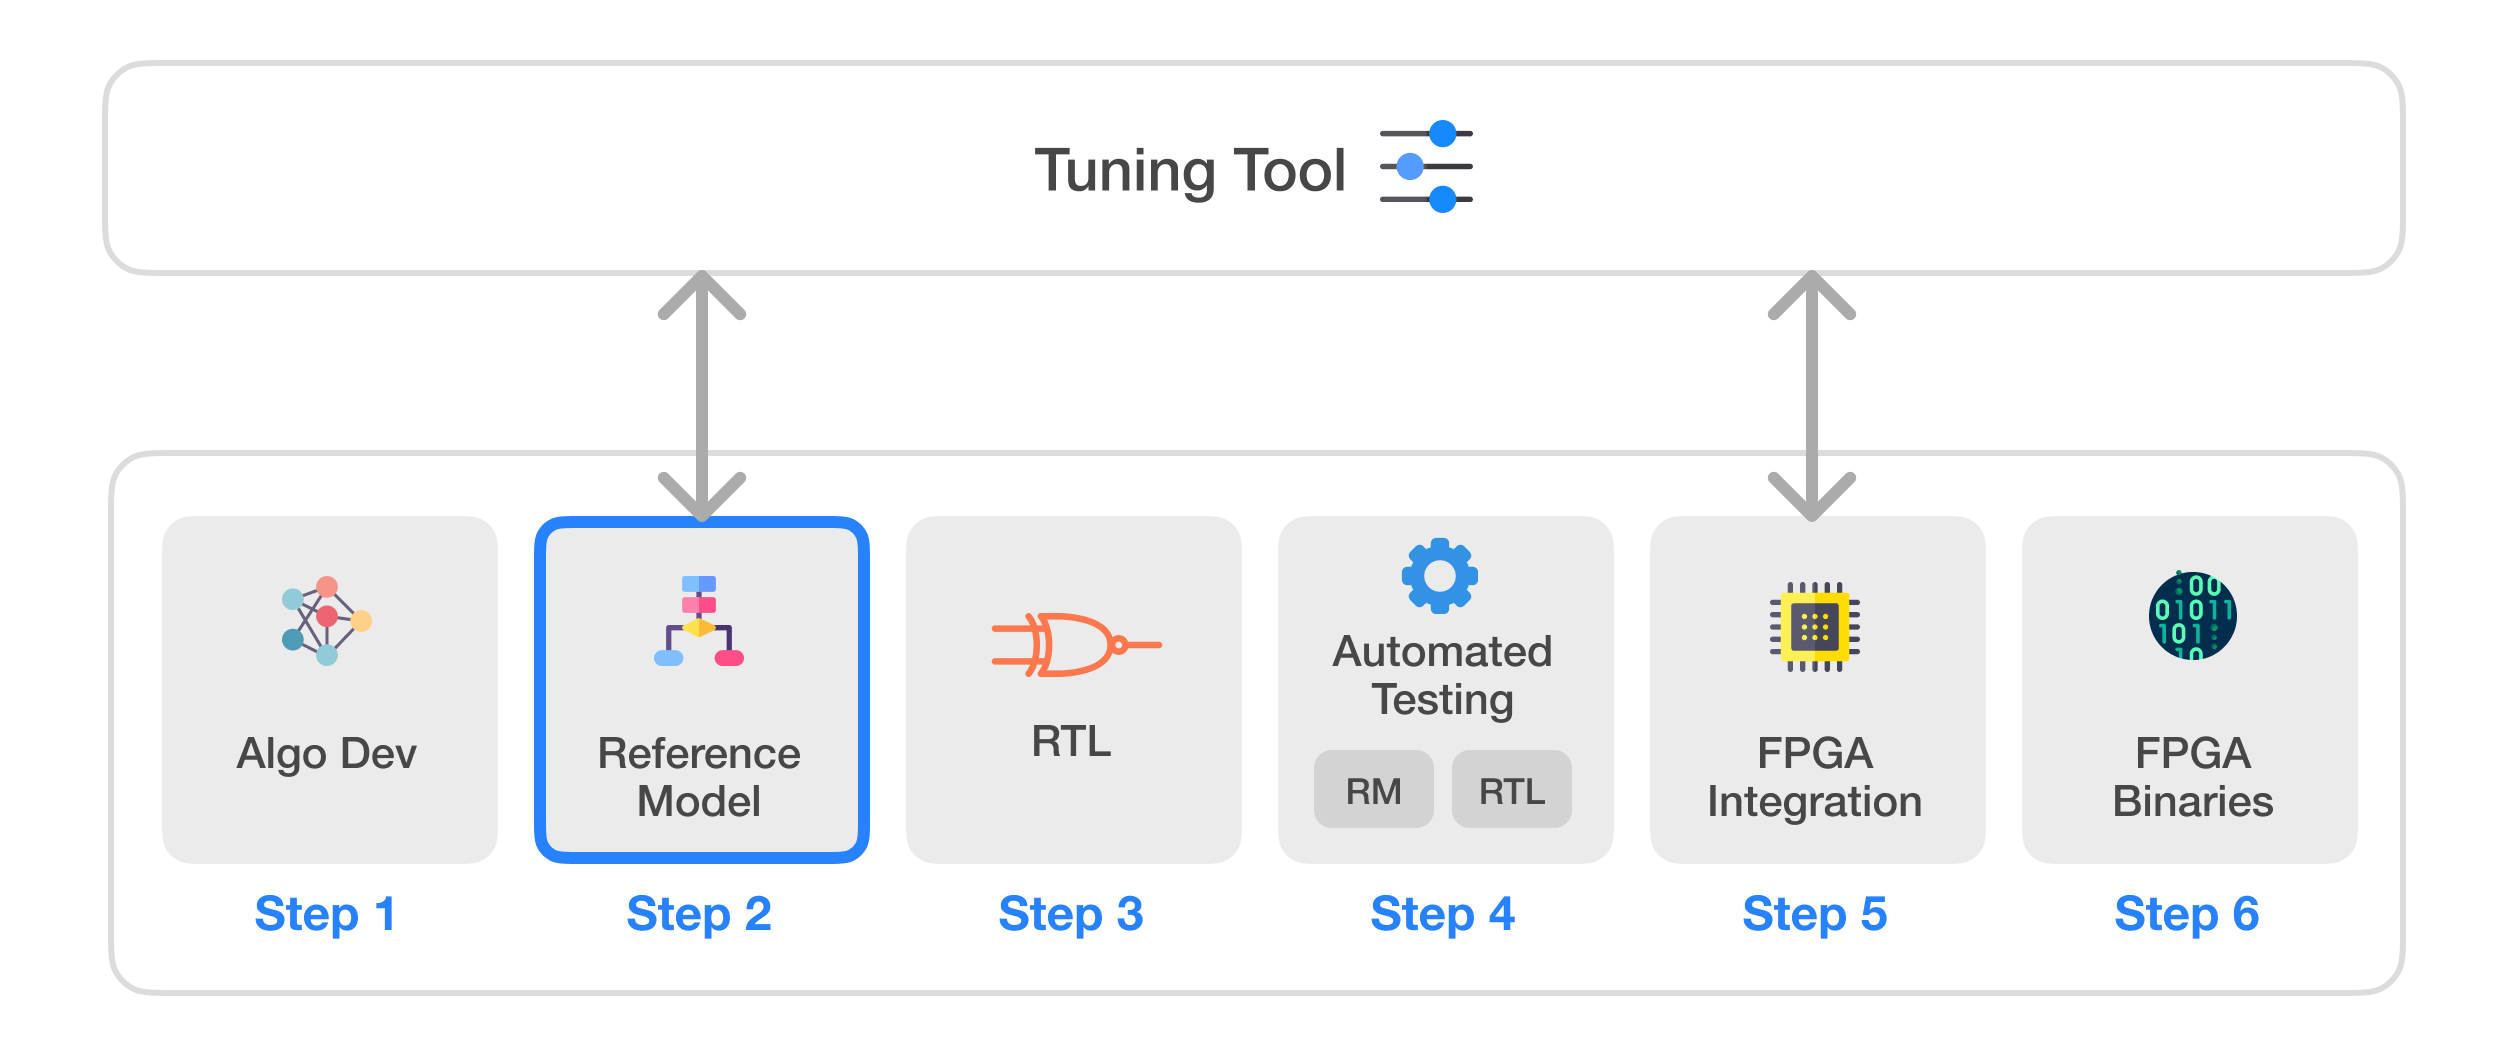
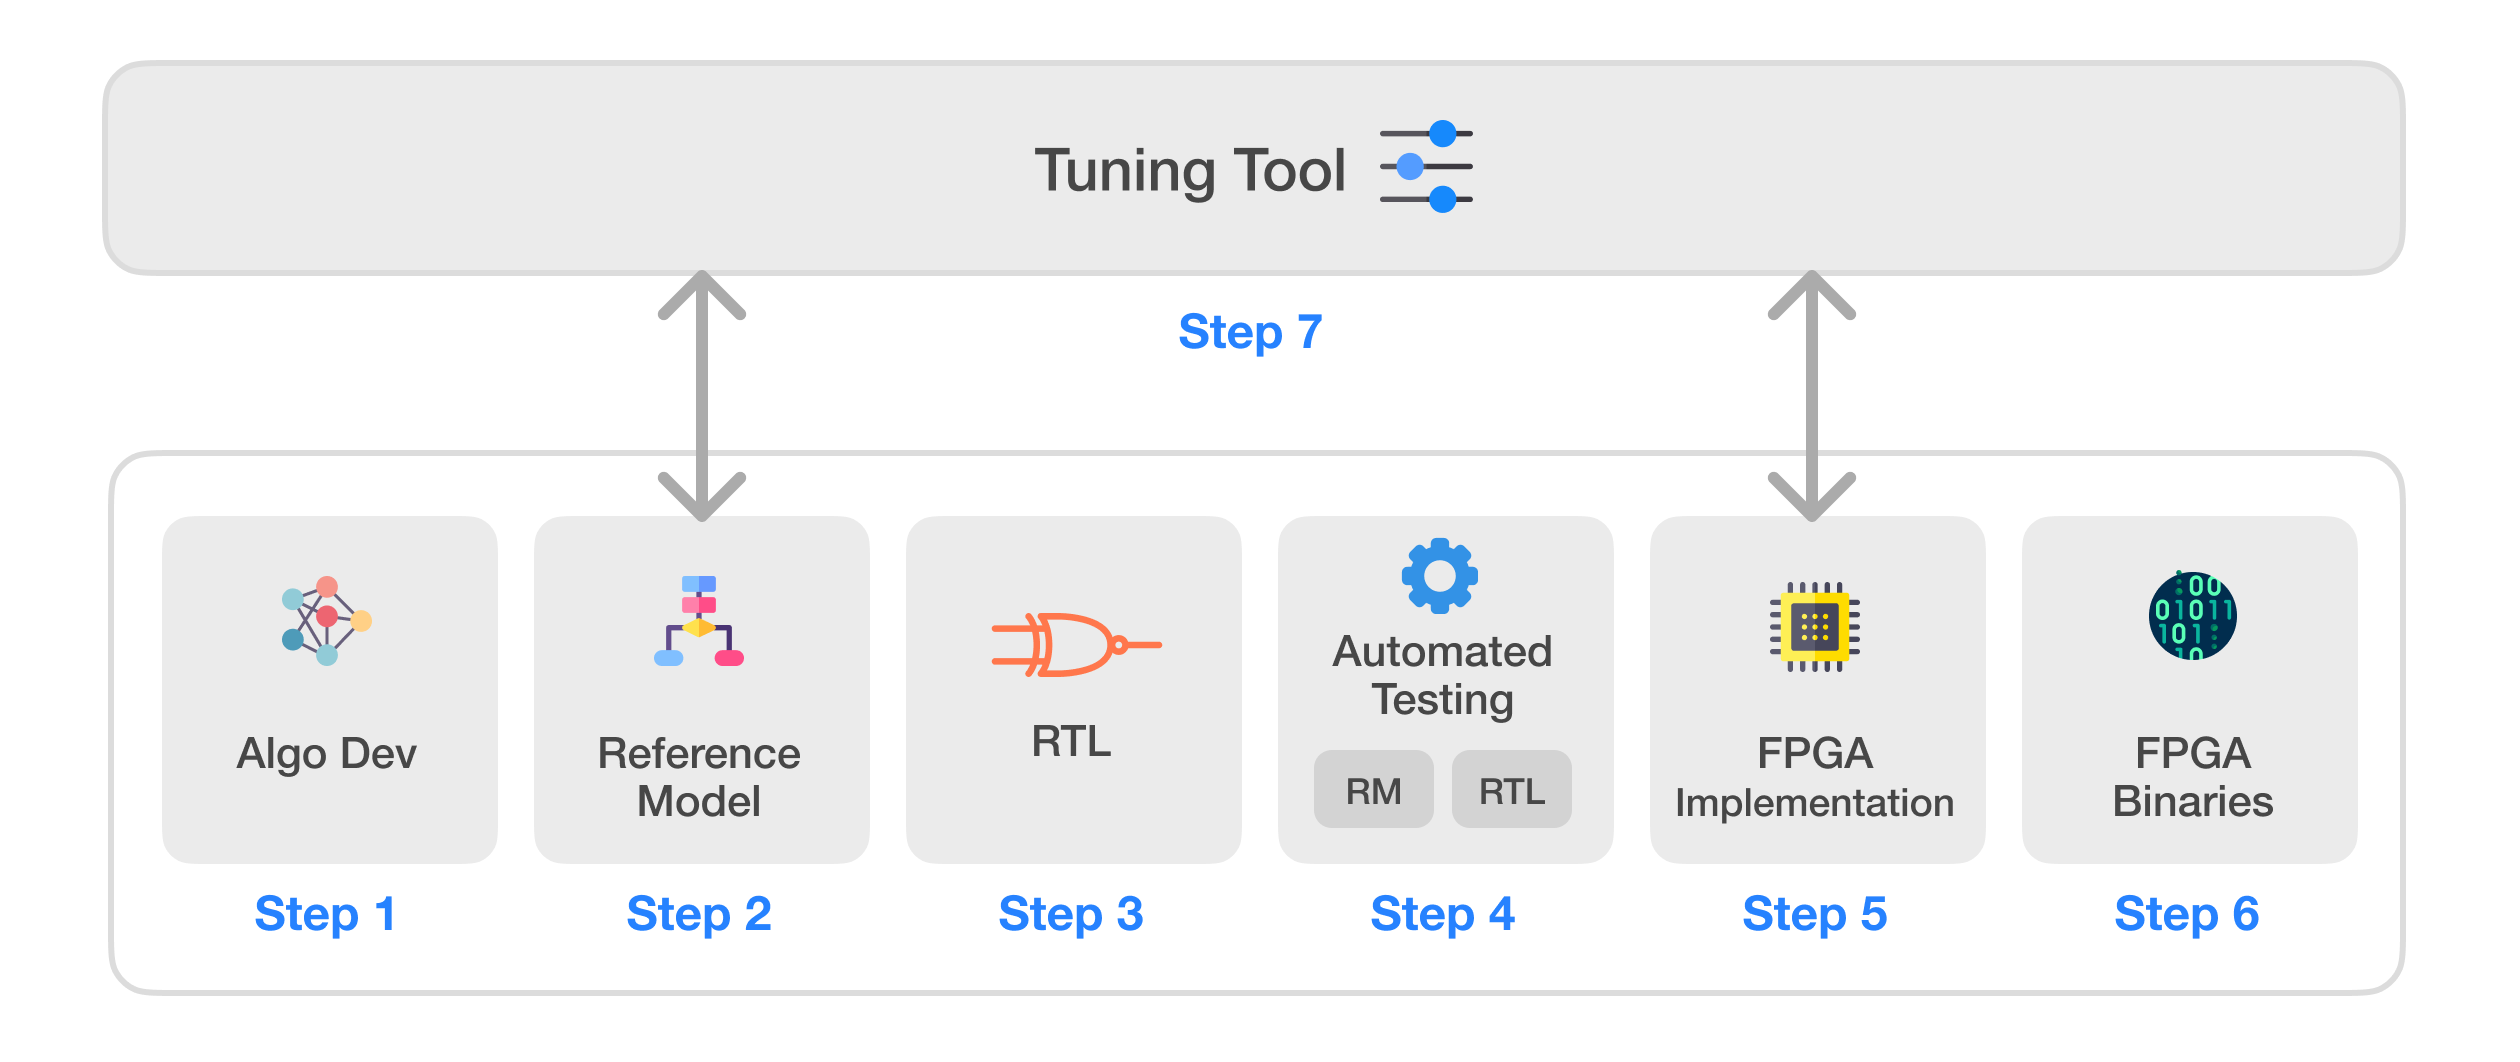
update readme header

diff --git a/README.md b/README.md
@@ -1,17 +1,18 @@
 # Infinite-ISP
-Infinite-ISP is a full-stack ISP development platform - from algorithm development to RTL design, FPGA/ASIC implementation, and associated firmware, tools, etc. It offers a unified platform that empowers ISP developers to accelerate ISP innovation. It includes a complete collection of camera pipeline modules written in Python, a quantized and optimized Reference Model for RTL development, an FPGA bitstream & the associated Firmware for the implementation of the pipeline on the Kria KV260 development board, and lastly, a stand-alone Python-based Tuning Tool application for the pipeline. The main components of the Infinite-ISP project are listed below:
+Infinite-ISP is a full-stack ISP development platform - from algorithm development to RTL design, FPGA/ASIC implementation, and associated firmware, tools, etc. It offers a unified platform that empowers ISP developers to accelerate ISP innovation. It includes a complete collection of camera pipeline modules written in Python, its associated fixed-point reference model, an optimized RTL design, an FPGA bitstream & the associated Firmware for the implementation of the pipeline on the Kria KV260 development board, and lastly, a stand-alone Python-based Tuning Tool application for the pipeline. The main components of the Infinite-ISP project are listed below:
 
 ![](docs/assets/Infinite-ISP_Repo_Flow.png)
 
 | Sr.     | Repository name        | Description      | 
 |---------| -------------  | ------------- |
-| 1  | **[Infinite-ISP_AlgorithmDesign](https://github.com/10x-Engineers/Infinite-ISP)**                     | Python based model of the Infinite-ISP pipeline for algorithm development |
-| 2  | **[Infinite-ISP_ReferenceModel](https://github.com/10x-Engineers/Infinite-ISP_ReferenceModel)**  :anchor:                    | Python based fixed-point model of the Infinite-ISP pipeline for hardware implementation |
-| 3  | **[Infinite-ISP_RTL](https://github.com/10x-Engineers/Infinite-ISP_RTL)**  | RTL development of the Infinite-ISP pipeline **[(Request Access)](https://docs.google.com/forms/d/e/1FAIpQLSfOIldU_Gx5h1yQEHjGbazcUu0tUbZBe0h9IrGcGljC5b4I-g/viewform?usp=sharing)** |
-| 4  | **[InfiniteISP_Automated_Testing](Repo_link)** | Streamline the testing and debugging process of RTL developement using [Infinite-ISP_ReferenceModel](https://github.com/10x-Engineers/Infinite-ISP_ReferenceModel) |
-| 5  | **[InfiniteISP_FPGA_XCK26](Repo_link)** | FPGA integration for the Xilinx® Kria KV260’s XCK26 Zynq UltraScale + MPSoC |
+| 1  | **[Infinite-ISP_AlgorithmDesign](https://github.com/10x-Engineers/Infinite-ISP)**   | Python based model of the Infinite-ISP pipeline for algorithm development |
+| 2  | **[Infinite-ISP_ReferenceModel](https://github.com/10x-Engineers/Infinite-ISP_ReferenceModel)**       :anchor:     | Python based fixed-point model of the Infinite-ISP pipeline for hardware implementation |
+| 3  | **[Infinite-ISP_RTL](https://github.com/10x-Engineers/Infinite-ISP_RTL)**  | RTL Verilog design of the image signal processor based on the Reference Model **[(Request Access)](https://docs.google.com/forms/d/e/1FAIpQLSfOIldU_Gx5h1yQEHjGbazcUu0tUbZBe0h9IrGcGljC5b4I-g/viewform?usp=sharing)** |
+| 4  | **[Infinite-ISP_Automated_Testing](https://github.com/10x-Engineers/Infinite-ISP_Automated_Testing)** | A framework to enable the automated block and multi-block level testing of the image signal processor to ensure a bit accurate design |
+| 5  | **FPGA Implementation** | FPGA implementation of Infinite-ISP on <br>  <ul><li>Xilinx® Kria KV260’s XCK26 Zynq UltraScale + MPSoC **[Infinite-ISP_FPGA_XCK26](https://github.com/10x-Engineers/Infinite-ISP_FPGA_XCK26)**</li></ul>   |
 | 6  | **[Infinite-ISP_FPGABinaries](https://github.com/10x-Engineers/Infinite-ISP_FPGABinaries)**         | FPGA binaries (bitstream + firmware executable) for the Xilinx® Kria KV260’s XCK26 Zynq UltraScale + MPSoC|
 | 7  | **[Infinite-ISP_TuningTool](https://github.com/10x-Engineers/Infinite-ISP_TuningTool)**                              | Collection of calibration and analysis tools for the Infinite-ISP |
+
 
 # Infinite-ISP Reference Model: A Python-based Model for RTL Implementation of Camera Pipeline Modules
 
